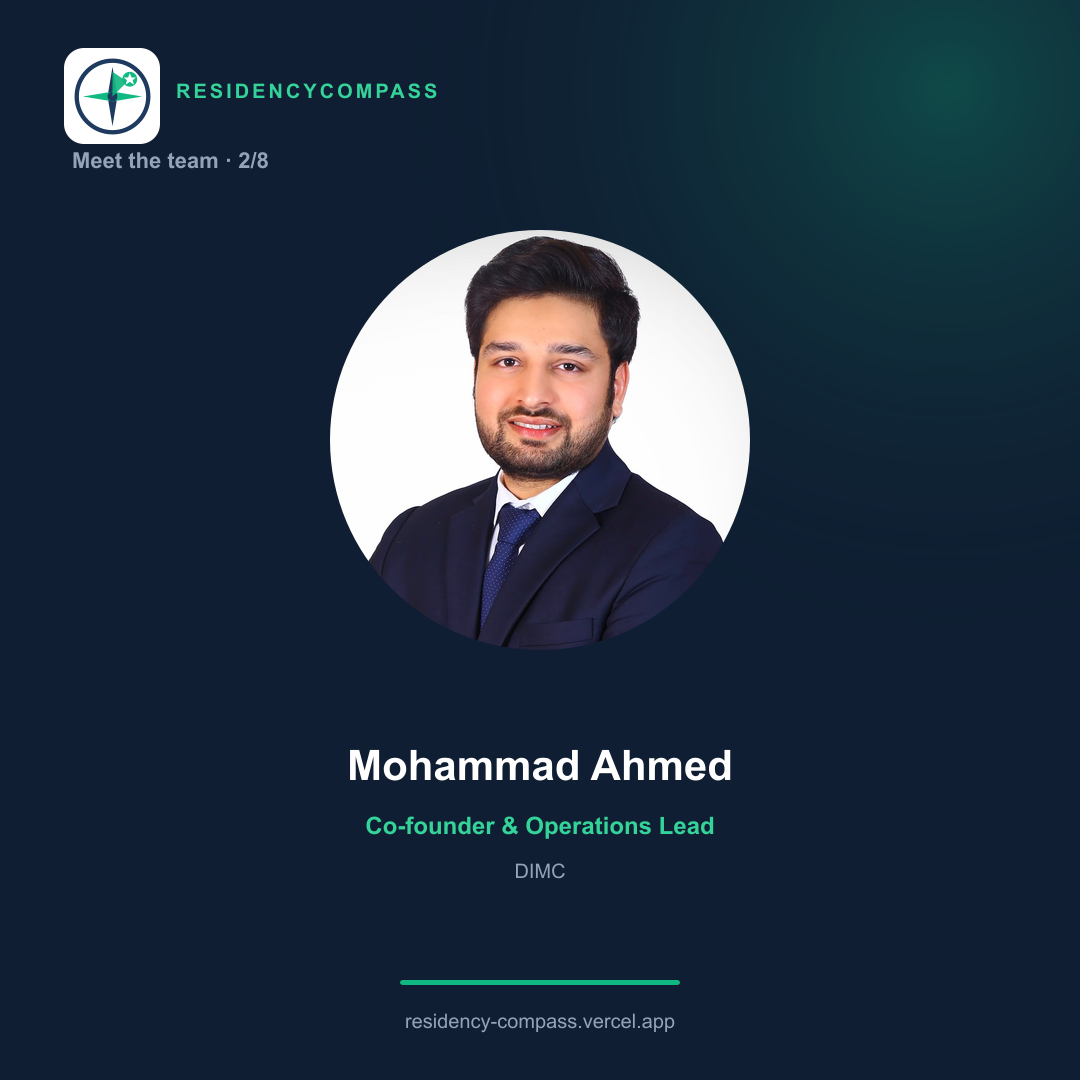
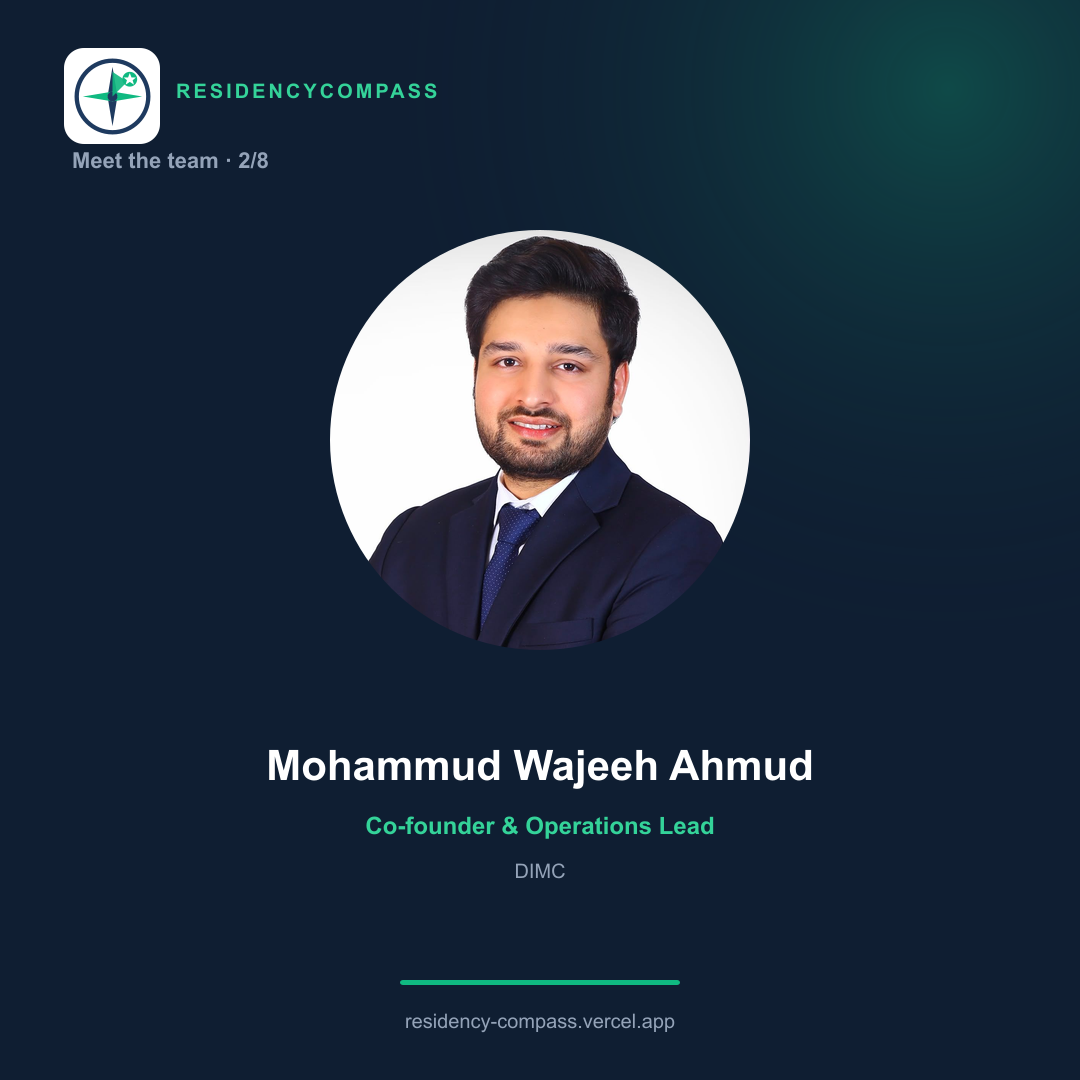
Correct co-founder name spelling to Mohammud Wajeeh Ahmud.

Changed region(s): [[0.2444, 0.6722, 0.7639, 0.7333]]

diff --git a/scripts/exportInstagramTeam.js b/scripts/exportInstagramTeam.js
@@ -18,7 +18,7 @@ const svgRaw = readFileSync(join(PUBLIC, 'favicon.svg'), 'utf8')
 
 const MEMBERS = [
   { id: 'mujtaba-azhar', name: 'Mujtaba Azhar', role: 'Founder & Product Lead', school: 'DIMC', photo: 'mujtaba-azhar.jpg', src: 'Mujtaba Azhar Siddiqui.jpg', position: 'centre' },
-  { id: 'mohammad-ahmed', name: 'Mohammad Ahmed', role: 'Co-founder & Operations Lead', school: 'DIMC', photo: 'mohammad-ahmed.jpg', src: 'Mohammud Wajeeh.jpeg', position: 'centre' },
+  { id: 'mohammad-ahmed', name: 'Mohammud Wajeeh Ahmud', role: 'Co-founder & Operations Lead', school: 'DIMC', photo: 'mohammad-ahmed.jpg', src: 'Mohammud Wajeeh.jpeg', position: 'centre' },
   { id: 'waqas-ali', name: 'Waqas Ali', role: 'Head of Program Data', school: 'Ameer-ud-Din Medical College', photo: 'waqas-ali.jpg', src: 'Waqas Ali.jpg', position: 'centre' },
   { id: 'aieman-naeem', name: 'Aieman Naeem', role: 'Program Data Specialist', school: 'Rawalpindi Medical University', photo: 'aieman-naeem.jpg', src: 'Aieman Naeem.png', position: 'north', padTop: 0.16 },
   { id: 'naima-agha', name: 'Naima Agha', role: 'Program Research Analyst', school: 'Foundation University Medical College', photo: 'naima-agha.jpg', src: 'Naima Agha.jpg', position: 'centre' },

diff --git a/src/constants/team.js b/src/constants/team.js
@@ -14,7 +14,7 @@ export const TEAM_MEMBERS = [
   },
   {
     id: 'mohammad-ahmed',
-    name: 'Mohammad Ahmed',
+    name: 'Mohammud Wajeeh Ahmud',
     role: 'Co-founder & Operations Lead',
     school: 'Dow International Medical College (DIMC)',
     group: 'leadership',

diff --git a/docs/TEAM.md b/docs/TEAM.md
@@ -2,7 +2,7 @@
 
 Last updated: 2026-08-12 (Hasan removed; Aieman → data; CV-friendly public titles)
 
-**Model:** Volunteers fill **secondary sheets**. **Master sheet** = Mujtaba + Mohammad Ahmed only. Website publish = Mujtaba only.
+**Model:** Volunteers fill **secondary sheets**. **Master sheet** = Mujtaba + Mohammud Wajeeh Ahmud only. Website publish = Mujtaba only.
 
 **Product framing:** Explore U.S. IM programs for clearer mutual fit — not to game the Match.
 
@@ -15,7 +15,7 @@ Last updated: 2026-08-12 (Hasan removed; Aieman → data; CV-friendly public tit
 | Name | School | Public role |
 |------|--------|-------------|
 | **Mujtaba Azhar** | DIMC | Founder & Product Lead |
-| **Mohammad Ahmed** | DIMC | Co-founder & Operations Lead |
+| **Mohammud Wajeeh Ahmud** | DIMC | Co-founder & Operations Lead |
 | **Waqas Ali** | Ameer-ud-Din Medical College | Head of Program Data |
 | **Naima Agha** | Foundation University Medical College | Program Research Analyst |
 | **Aimal Waqas** | Foundation University Medical College | Match Insights Analyst |
@@ -34,7 +34,7 @@ Last updated: 2026-08-12 (Hasan removed; Aieman → data; CV-friendly public tit
 | Name | Focus |
 |------|--------|
 | **Mujtaba Azhar** | Founder & Product Lead. Product + website publish. |
-| **Mohammad Ahmed** | Co-founder & Operations Lead. Ops + master co-owner. Dedup. Merge secondary → master. |
+| **Mohammud Wajeeh Ahmud** | Co-founder & Operations Lead. Ops + master co-owner. Dedup. Merge secondary → master. |
 
 ### Data (secondary sheets → master)
 
